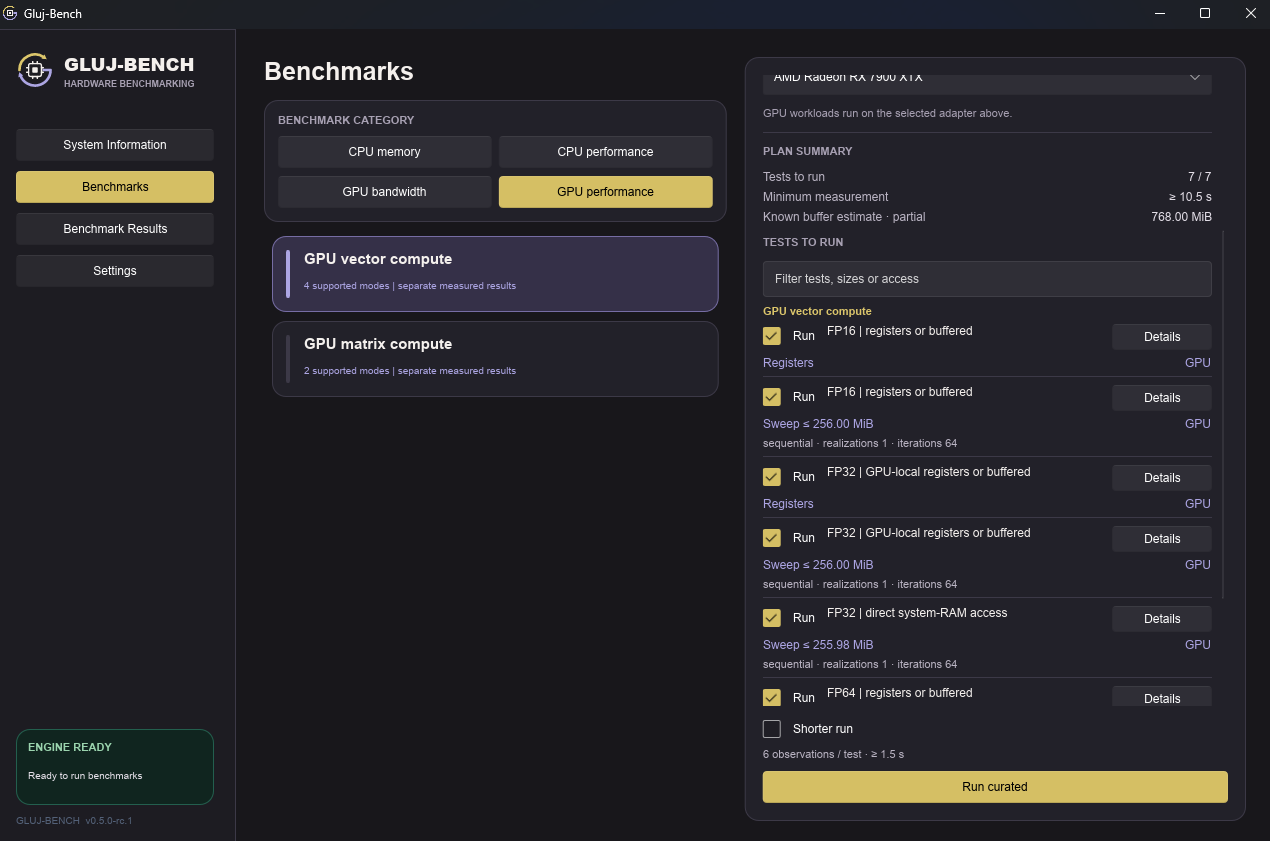
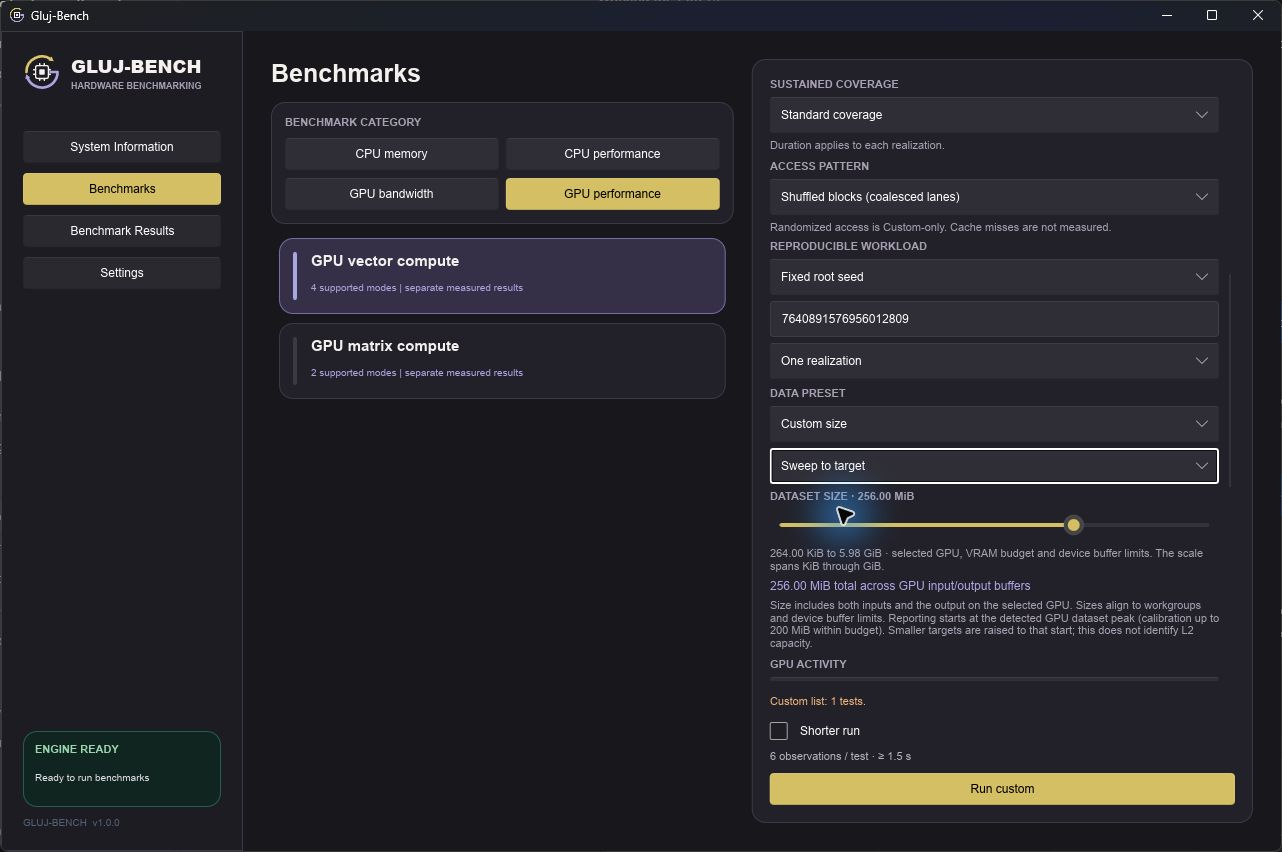
Refresh README screenshots for Gluj-Bench 1.0

diff --git a/README.md b/README.md
@@ -26,7 +26,7 @@ Repeated observations contribute to a median and an observed range. Variation st
 ## Build your own test plan
 
 <p align="center">
-  <img src="Benchmarks.png" alt="Benchmark families and the checklist of tests in a selected plan" width="1000">
+  <img src="Benchmarks.png" alt="Custom GPU workload settings for shuffled access, a reproducible seed, and a dataset sweep" width="1000">
 </p>
 
 - **Curated** gives you standard coverage across the selected family’s supported variants. The **Tests to run** checklist lets you leave out any test.
